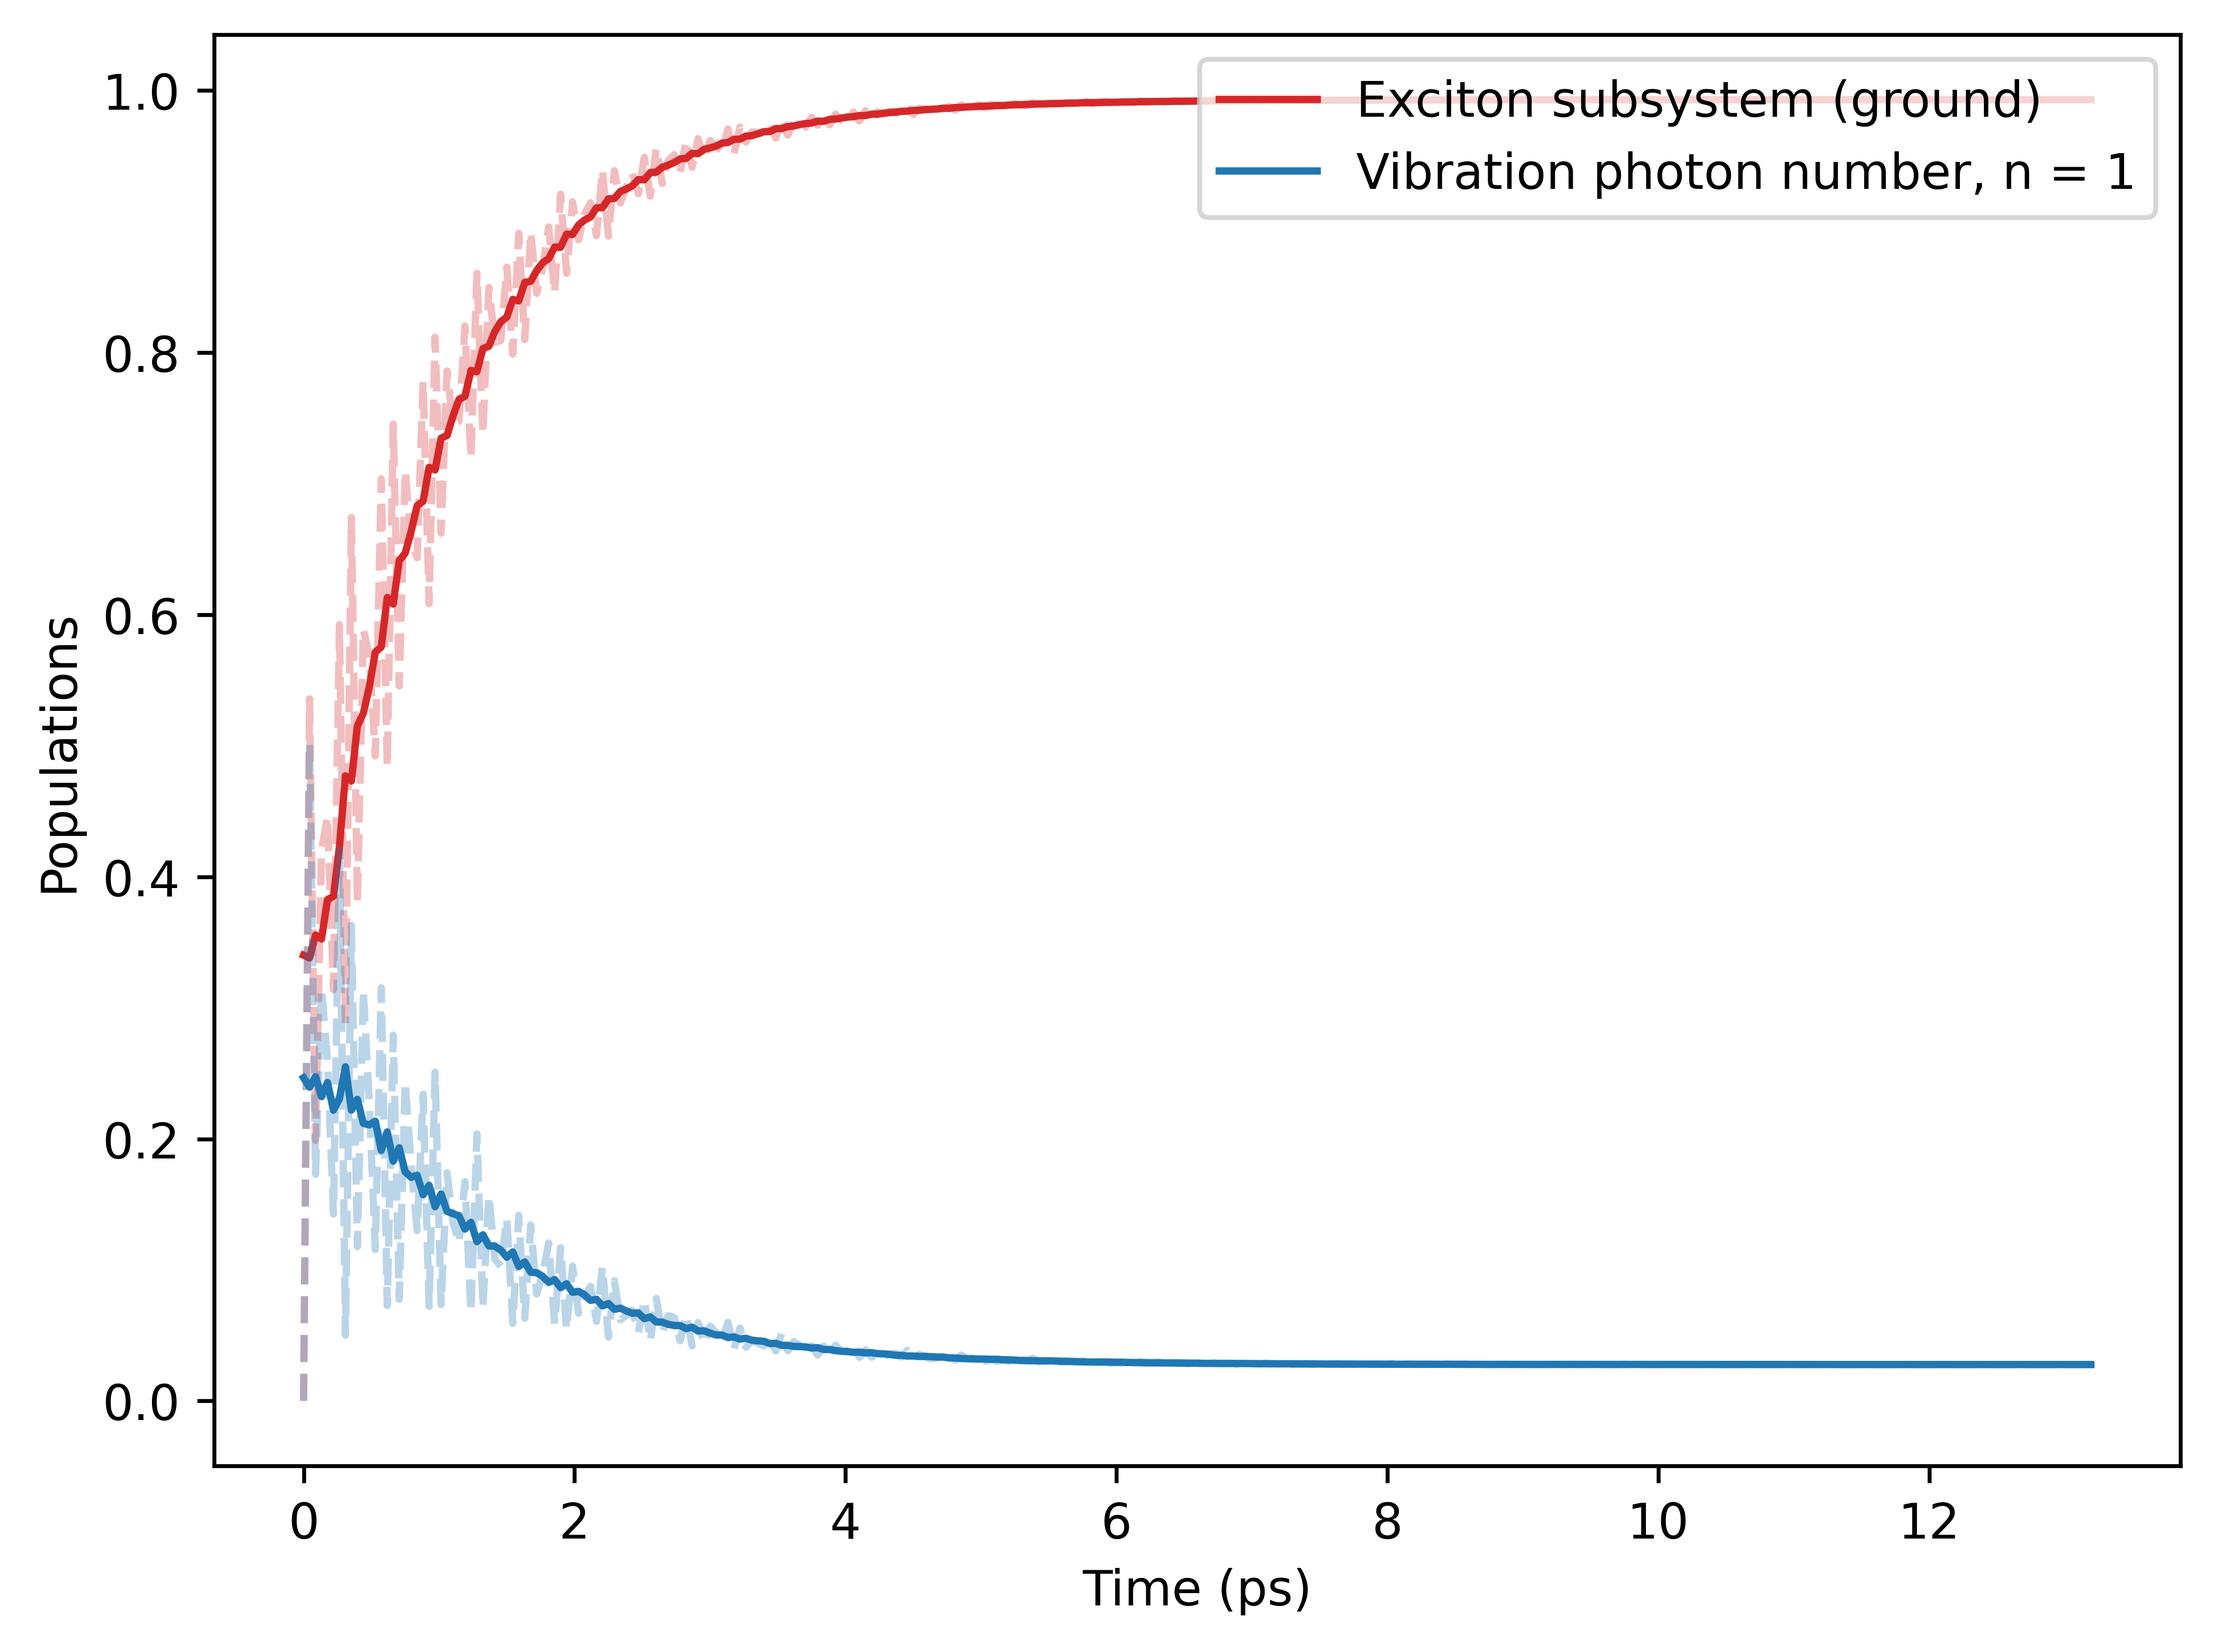
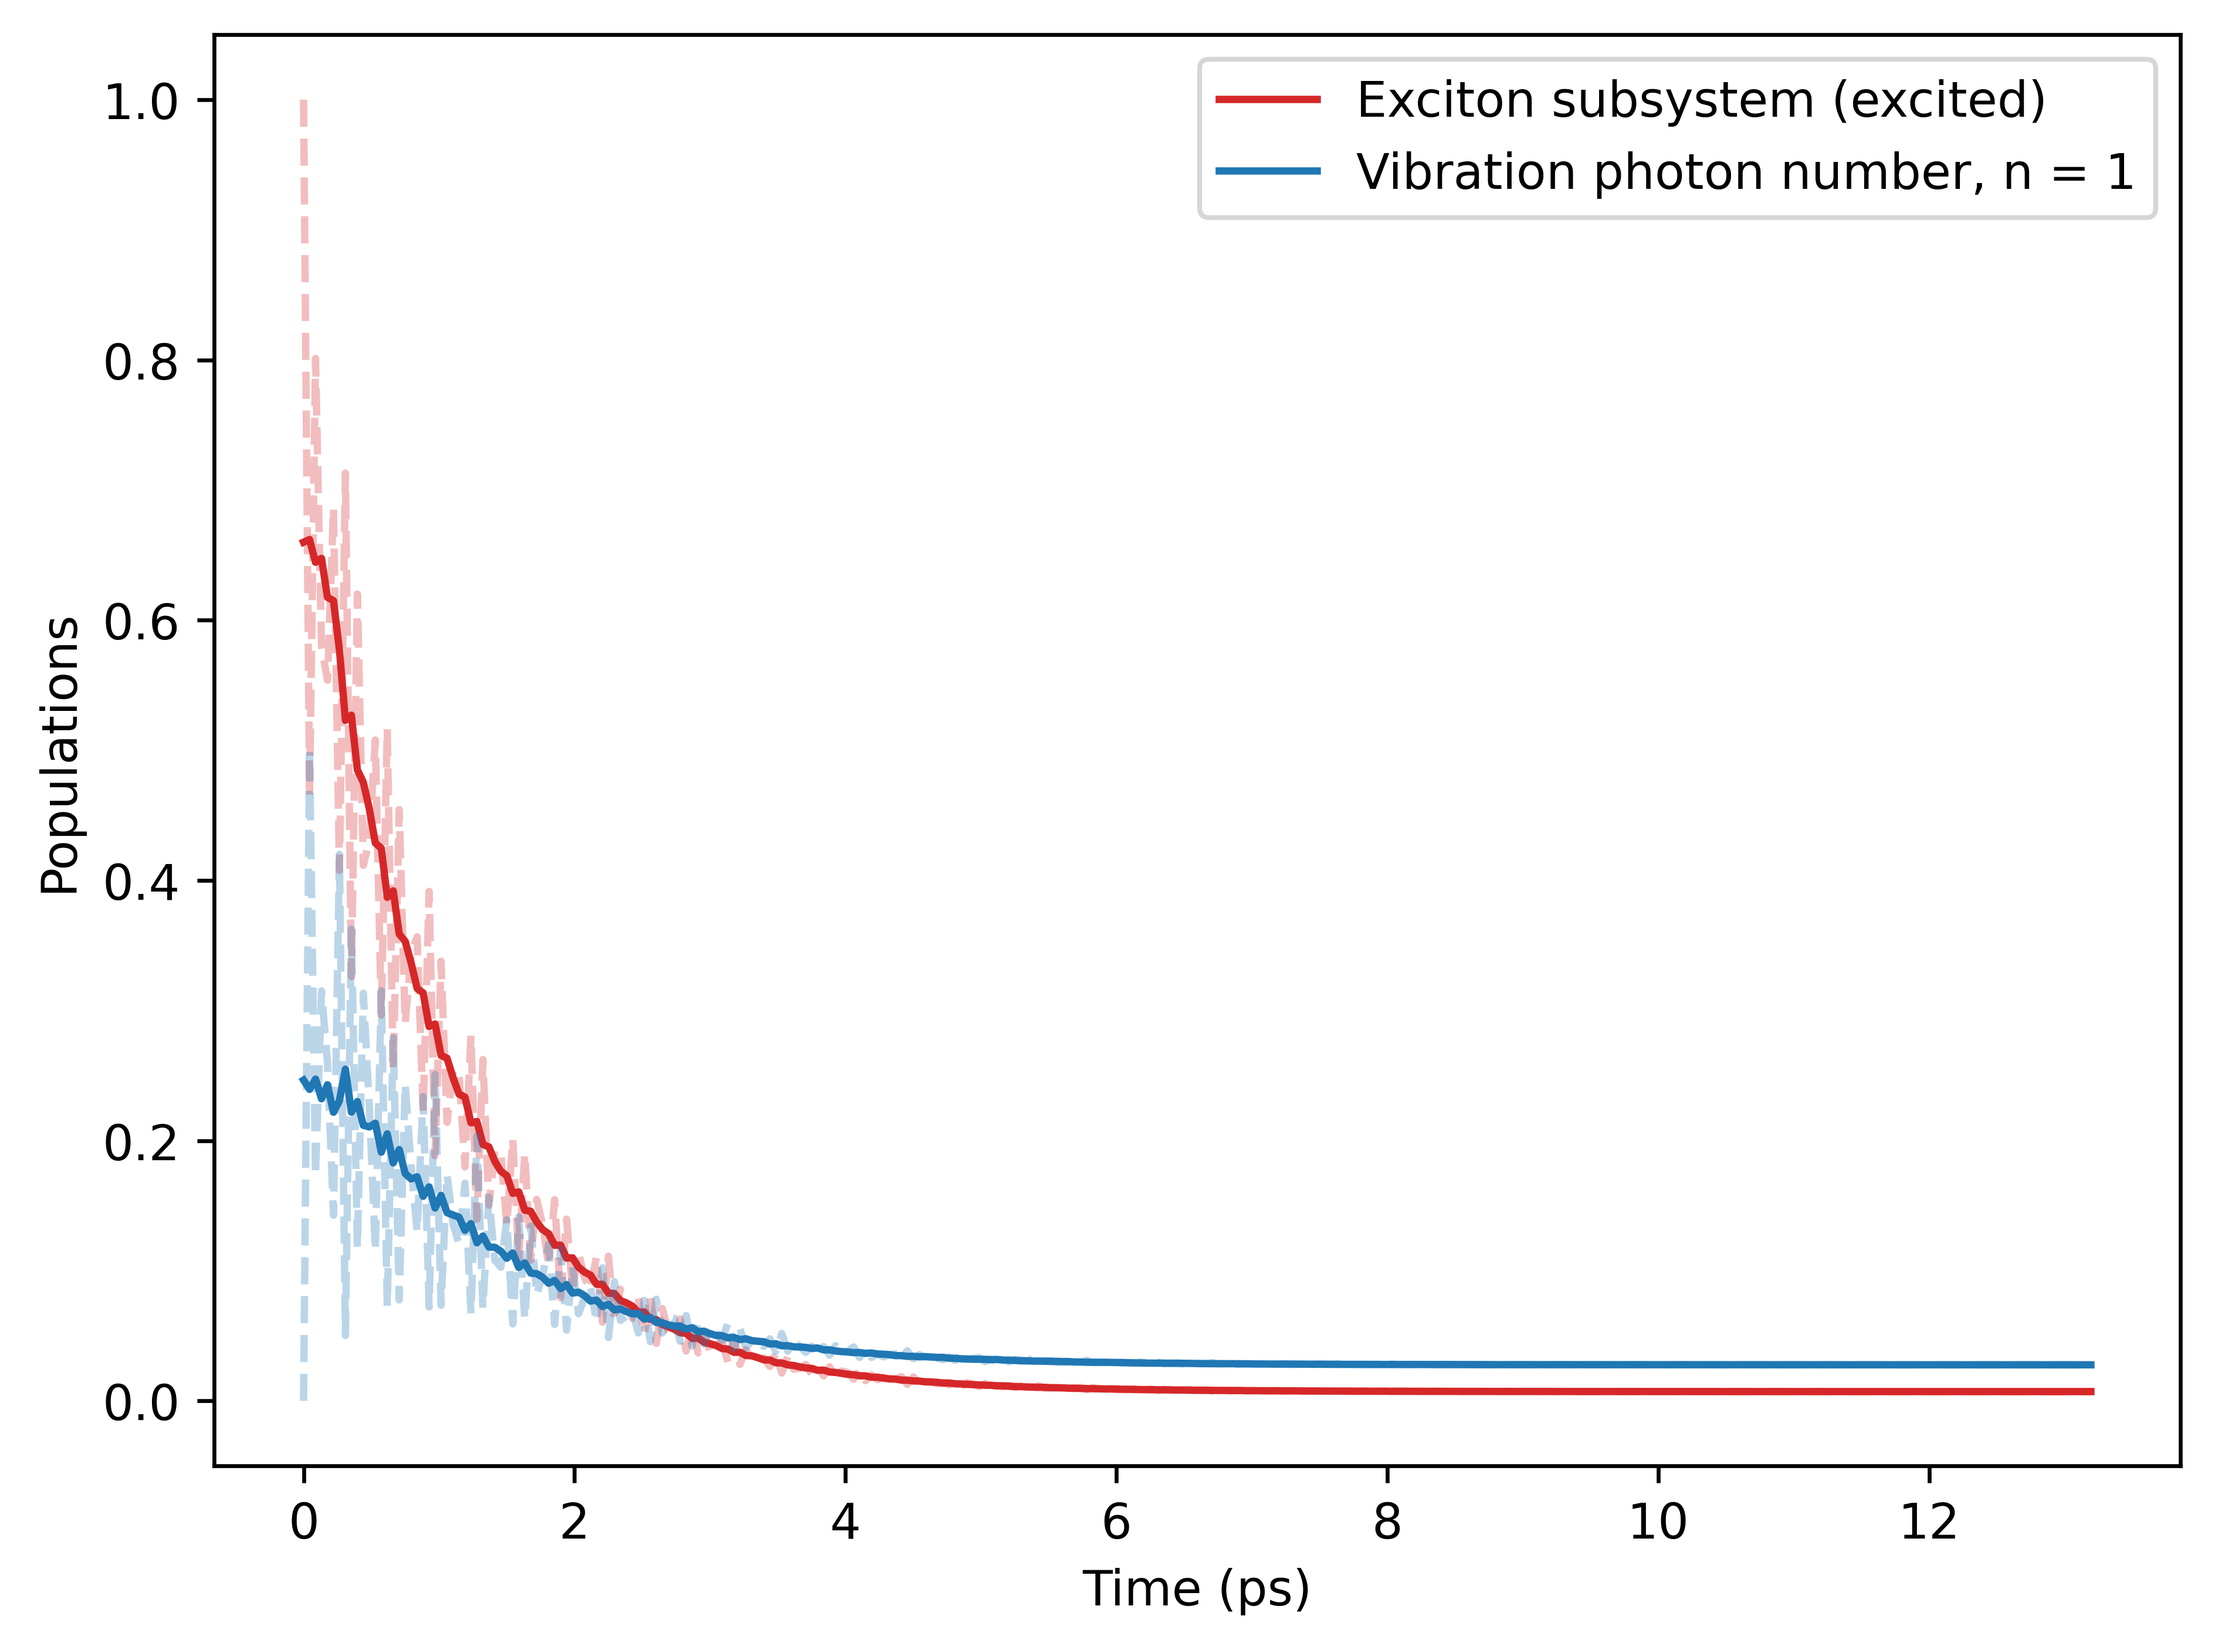
Improved line thicknesses to better distinguish between subsystems, and plotted excited states for ExVib sims.

diff --git a/Research Project/Code/ExVib_Closed.py b/Research Project/Code/ExVib_Closed.py
@@ -53,7 +53,7 @@ psi0_e0 = q.tensor(basis_atom_e, basis_qho_0)
 psi0_eg = q.tensor(basis_atom_e + basis_atom_g, basis_qho_0) / math.sqrt(2)
 ############################ SIMULATION ENV ###################################
 n1_pop = q.tensor(q.qeye(2), basis_qho_1 * basis_qho_1.dag())  # QHO pop |n=1>
-e_ops = [s_lower * s_raise, n1_pop]
+e_ops = [s_raise * s_lower, n1_pop]
 
 sim_e0_env = TLSQHOSimulator(H, psi0_e0, e_ops=e_ops, times=tlist_env)
 sim_eg_env = TLSQHOSimulator(H, psi0_eg, e_ops=e_ops, times=tlist_env)
@@ -102,11 +102,11 @@ coh_tot_eg_fast = sim_eg_fast.rel_coherence(results_eg_fast)
 ############################### PLOTS ENV #####################################
 
 sim_e0_env.plot(
-    "pops_ground",
+    "pops_excited",
     [
         {
             "y_data": results_expt_e0_env[0],
-            "label": "Exciton ground state",
+            "label": "Exciton excited state",
             "colour": "tab:red",
         },
         {
@@ -142,11 +142,11 @@ sim_e0_env.plot(
 
 
 sim_eg_env.plot(
-    "pops_ground_eg",
+    "pops_excited_eg",
     [
         {
             "y_data": results_expt_eg_env[0],
-            "label": "Exciton ground state",
+            "label": "Exciton excited state",
             "colour": "tab:red",
         },
         {
@@ -184,11 +184,11 @@ sim_eg_env.plot(
 ############################### PLOTS ENV #####################################
 
 sim_e0_fast.plot(
-    "pops_ground",
+    "pops_excited",
     [
         {
             "y_data": results_expt_e0_fast[0],
-            "label": "Exciton ground state",
+            "label": "Exciton excited state",
             "colour": "tab:red",
         },
         {
@@ -228,11 +228,11 @@ sim_e0_fast.plot(
 
 
 sim_eg_fast.plot(
-    "pops_ground_eg",
+    "pops_excited_eg",
     [
         {
             "y_data": results_expt_eg_fast[0],
-            "label": "Exciton ground state",
+            "label": "Exciton excited state",
             "colour": "tab:red",
         },
         {

diff --git a/Research Project/Code/JCM_Open_eg.py b/Research Project/Code/JCM_Open_eg.py
@@ -140,12 +140,14 @@ sim_open_spont.plot(
             "label": "Atomic subsystem",
             "colour": "tab:red",
             "linestyle": "--",
+            "linewidth": 0.7,
         },
         {
             "y_data": coh_qho_spont,
             "label": "Cavity subsystem",
             "colour": "tab:blue",
             "linestyle": "--",
+            "linewidth": 0.7,
         },
         {
             "y_data": coh_tot_spont,
@@ -165,12 +167,14 @@ sim_open_therm.plot(
             "label": "Atomic subsystem",
             "colour": "tab:red",
             "linestyle": "--",
+            "linewidth": 0.7,
         },
         {
             "y_data": coh_qho_therm,
             "label": "Cavity subsystem",
             "colour": "tab:blue",
             "linestyle": "--",
+            "linewidth": 0.7,
         },
         {
             "y_data": coh_tot_therm,
@@ -190,12 +194,14 @@ sim_open_both.plot(
             "label": "Atomic subsystem",
             "colour": "tab:red",
             "linestyle": "--",
+            "linewidth": 0.7,
         },
         {
             "y_data": coh_qho_both,
             "label": "Cavity subsystem",
             "colour": "tab:blue",
             "linestyle": "--",
+            "linewidth": 0.7,
         },
         {
             "y_data": coh_tot_both,

diff --git a/Research Project/Code/JCM_Closed_eg.py b/Research Project/Code/JCM_Closed_eg.py
@@ -68,7 +68,6 @@ sim.plot(
             "label": "Cavity photon number, n = 0",
             "colour": "tab:blue",
         },
-
     ],
     y_label="Populations",
     savepath="JCM",
@@ -76,7 +75,7 @@ sim.plot(
 
 sim.plot(
     "CQS_vne_eg",
-    [{"y_data": vne, "colour" : "tab:purple"}],
+    [{"y_data": vne, "colour": "tab:purple"}],
     y_label="Von Neumann Entanglement Entropy",
     savepath="JCM",
 )
@@ -84,8 +83,20 @@ sim.plot(
 sim.plot(
     "CQS_coh_eg",
     [
-        {"y_data": coh_tls, "label": "Atomic subsystem", "colour": "tab:red"},
-        {"y_data": coh_qho, "label": "Cavity subsystem", "colour": "tab:blue"},
+        {
+            "y_data": coh_tls,
+            "label": "Atomic subsystem",
+            "colour": "tab:red",
+            "linestyle": "--",
+            "linewidth": 0.7,
+        },
+        {
+            "y_data": coh_qho,
+            "label": "Cavity subsystem",
+            "colour": "tab:blue",
+            "linestyle": "--",
+            "linewidth": 0.7,
+        },
         {"y_data": coh_tot, "label": "Total system", "colour": "tab:green"},
     ],
     y_label="Relative Entropy of Coherence",

diff --git a/Research Project/Code/ExVib_Pops_Open.py b/Research Project/Code/ExVib_Pops_Open.py
@@ -4,8 +4,8 @@ import numpy as np
 import math
 
 """
-This simulation looks at the Exciton Vibration system and plots the populations of the Vibration, and both the 
-ground and excited states of the Exciton. This is done for 3 Lindblad Decay Operators: Spontaneous Atomic 
+This simulation looks at the Exciton Vibration system and plots the populations of the Vibration and 
+excited states of the Exciton. This is done for 3 Lindblad Decay Operators: Spontaneous Atomic 
 Emission, Thermal Dissipation, and both combined.
 
 """
@@ -94,7 +94,7 @@ for decay_label, lindblad_ops in decay_ops.items():
         sim.plot(
             f"pops_ex_{decay_label}_{psi_label}",
             [
-                {"y_data": ground, "label": "Exciton subsystem (ground)", "colour": "tab:red"},
+                {"y_data": excited, "label": "Exciton subsystem (excited)", "colour": "tab:red"},
                 {"y_data": vib1, "label": "Vibration photon number, n = 1", "colour": "tab:blue"},
             ],
             "Populations",
